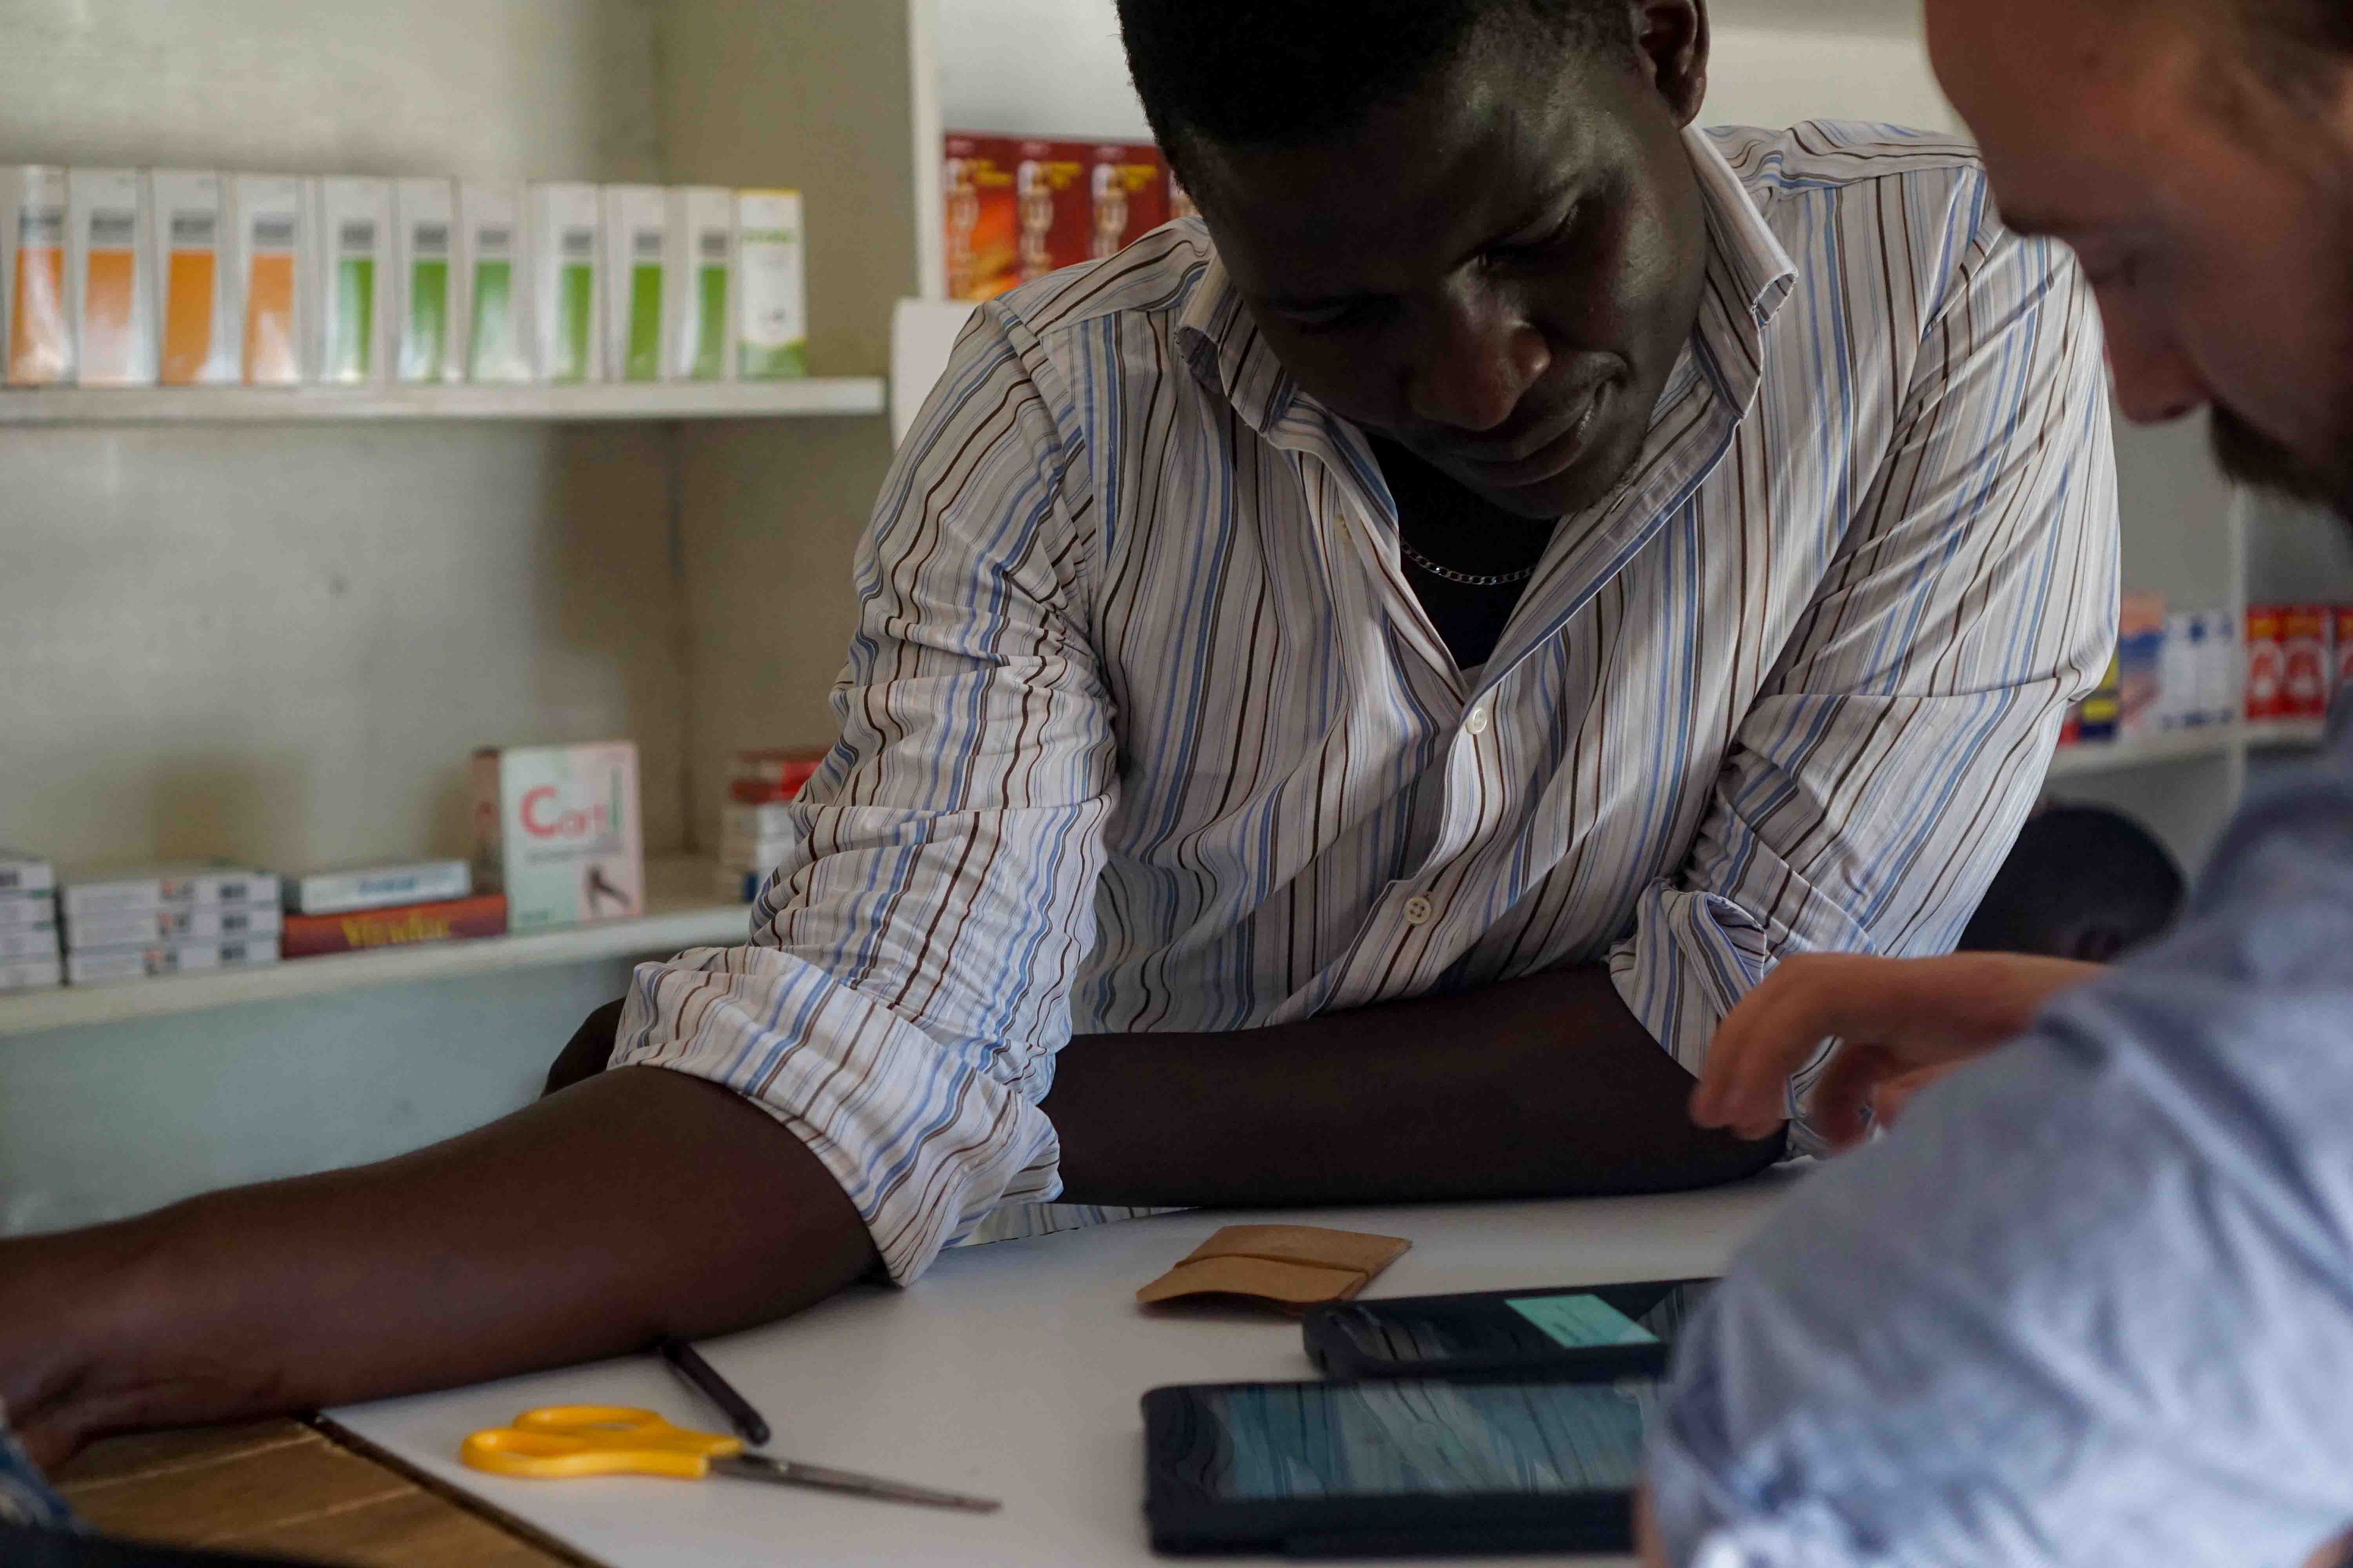
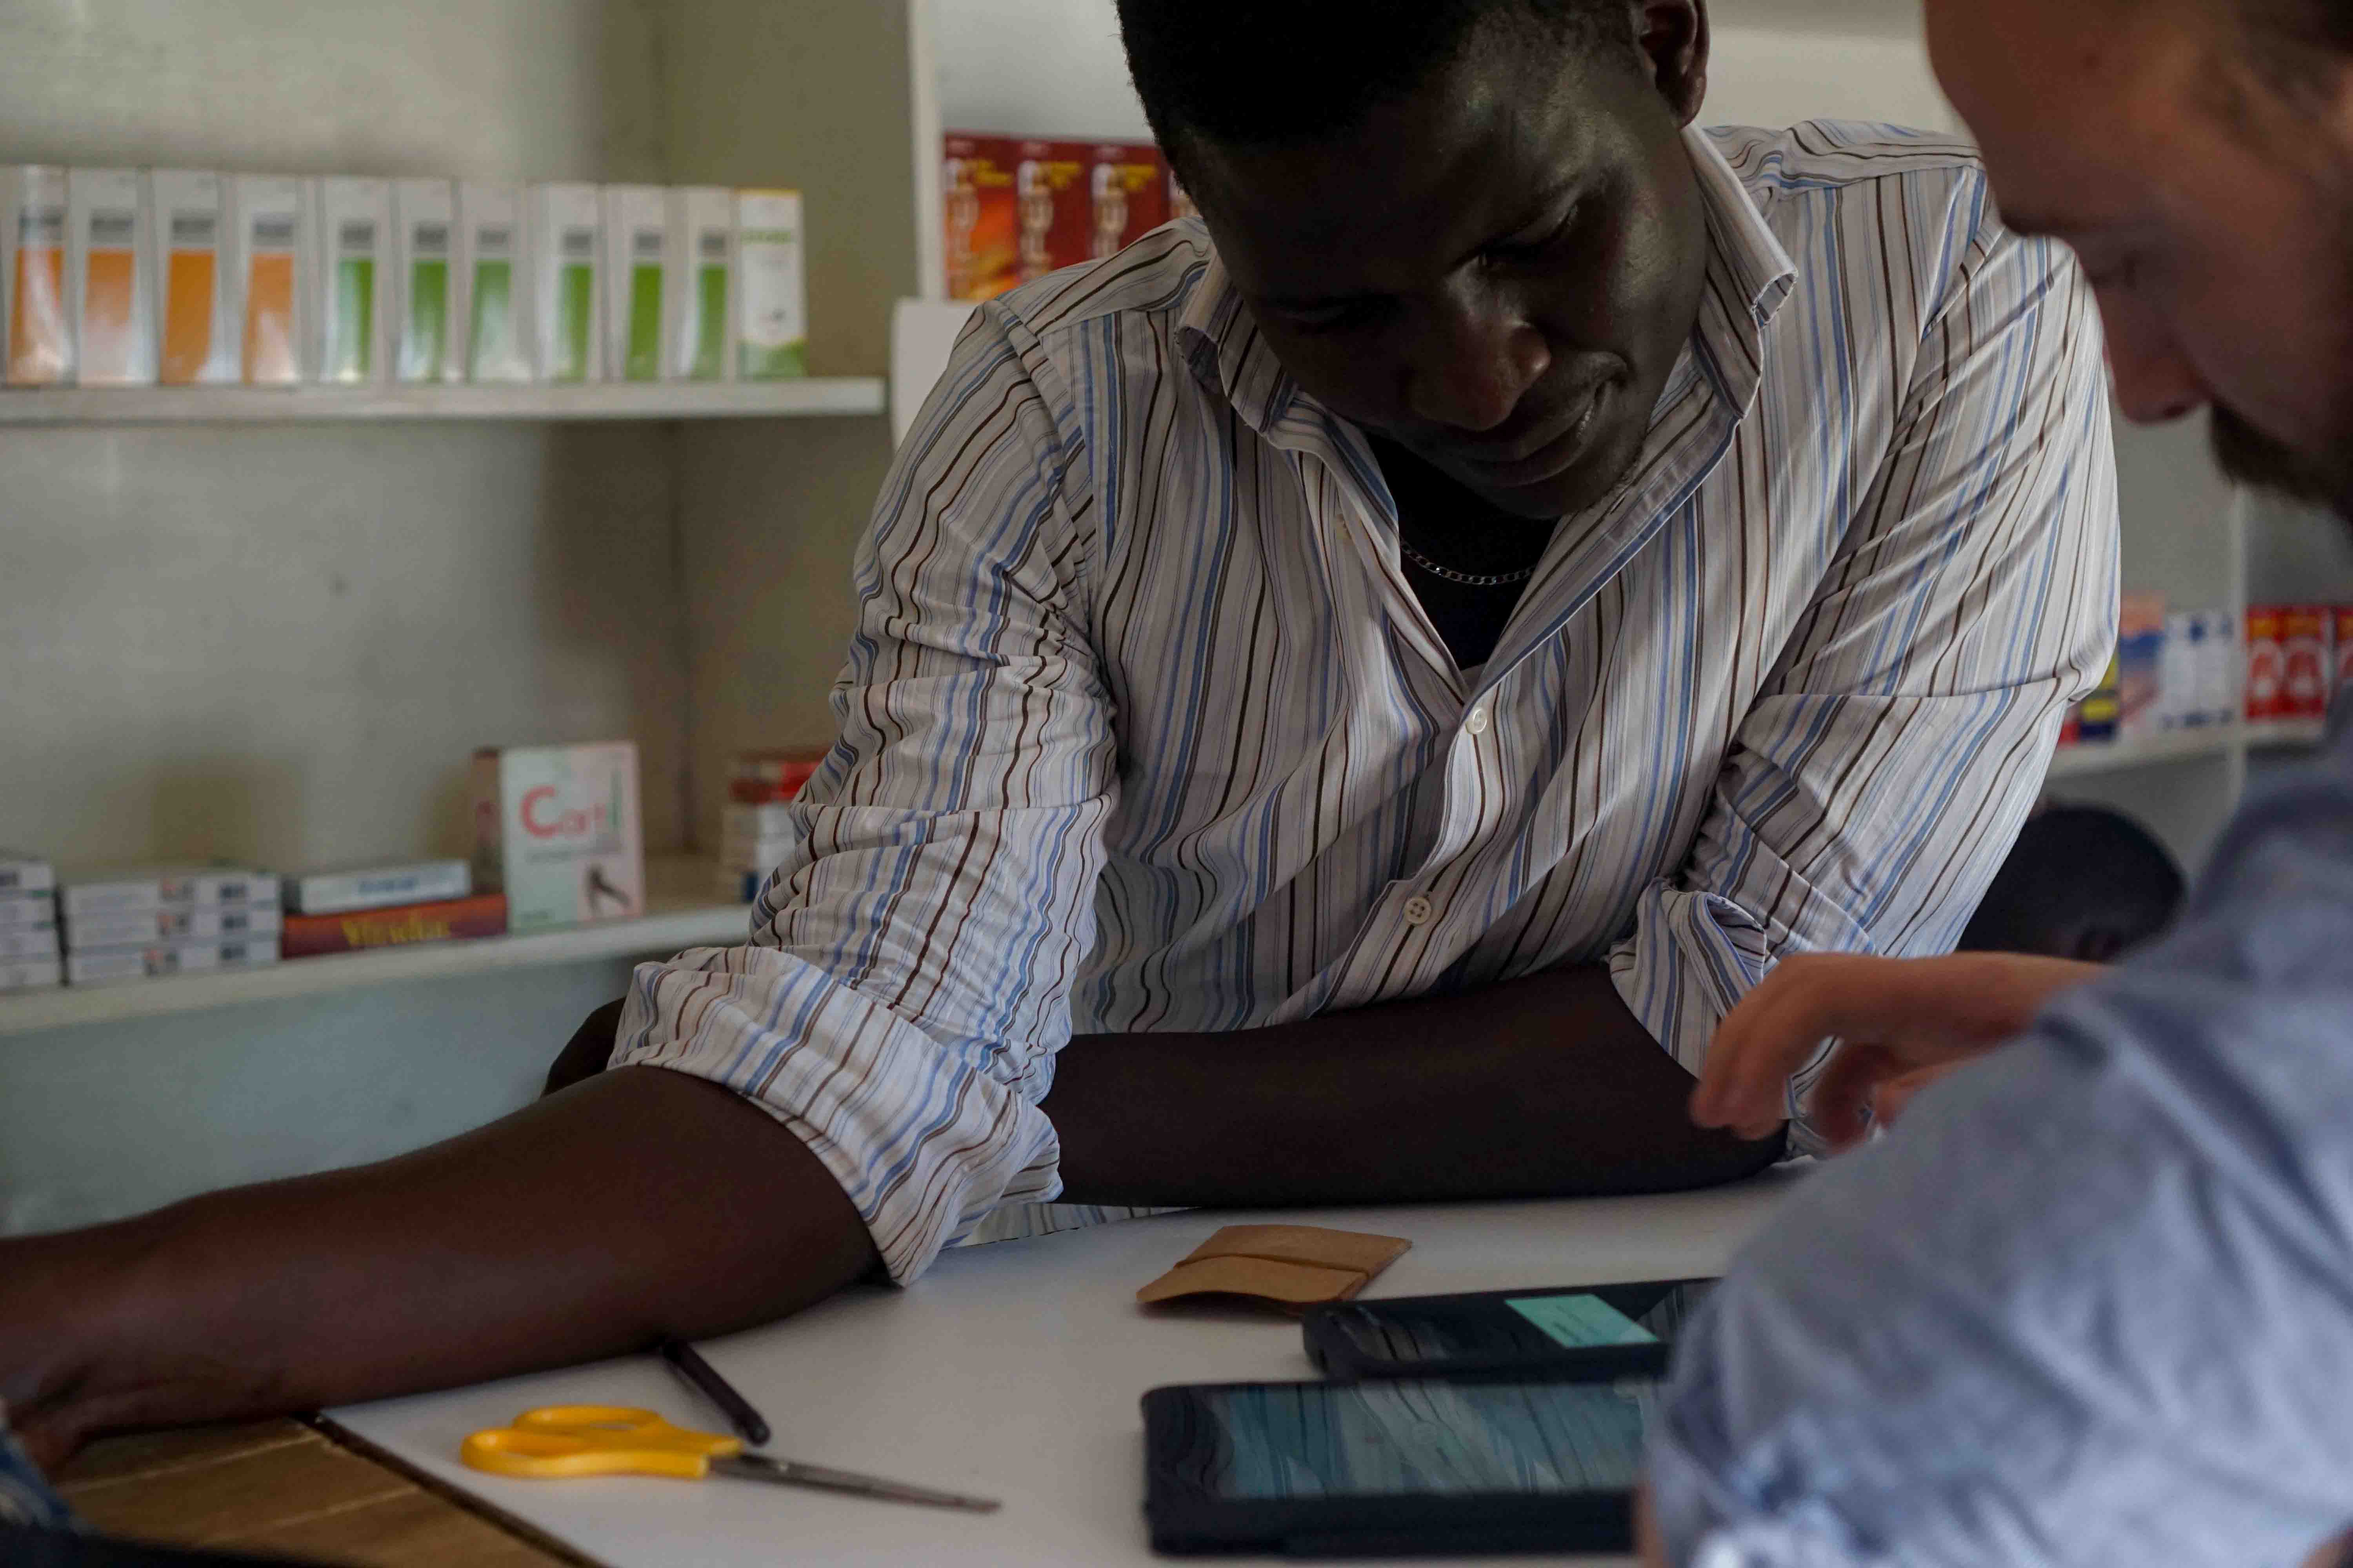
reduced margins on contact page text and darkened pic

diff --git a/contact.html b/contact.html
@@ -79,13 +79,13 @@
     <div class="container-fluid">
         <div class="row">
           <h1 style="margin-bottom:20px"> Contact </h1>
-          <p class="text-shadow-light"> I'm currently living in Nairobi full time. I make frequent trips to Kisumu for work, and try to make it home to Canada every once and a while. You can always reach me via email, and unless I'm in transit, or somewhere really remote, I'll be available on WhatsApp via my Kenyan phone number.
+          <p class="text-shadow-dark"> I'm currently living in Nairobi full time. I make frequent trips to Kisumu for work, and try to make it home to Canada every once and a while. You can always reach me via email, and unless I'm in transit, or somewhere really remote, I'll be available on WhatsApp via my Kenyan phone number.
           </p>
-          <p class="text-shadow-light"> <a href="mailto:sam@maishameds.org">
+          <p class="text-shadow-dark"> <a href="mailto:sam@maishameds.org">
           <strong> Email me</strong> </a> </p>
-          <p class="text-shadow-light"> 
+          <p class="text-shadow-dark"> 
           <strong>WhatsApp</strong> <a href="tel:+254727347491">:+254 727 347 491</a> </p>
-          <p class="text-shadow-light"> Check out my <a href="https://www.linkedin.com/in/sam-wilks-b314bb42"> <strong> LinkedIn </strong></a> profile </p>
+          <p class="text-shadow-dark"> Check out my <a href="https://www.linkedin.com/in/sam-wilks-b314bb42"> <strong> LinkedIn </strong></a> profile </p>
         </div>
     </div>
   </div>

diff --git a/less/main.less b/less/main.less
@@ -98,7 +98,7 @@ body {
 }
 
 .text-shadow-dark {
-	text-shadow: 0px 0px 6px rgba(0, 0, 0, 0.34);
+	text-shadow: 0px 0px 6px rgba(0, 0, 0, 0.60);
 }
 
 #index-jumbotron {
@@ -134,11 +134,11 @@ body {
 
 	@media screen and (max-width:1180px) {
 		margin-left:7.5%;
-		margin-top:5%;
-		margin-right: 20%
+		margin-top:4%;
+		margin-right: 50%
 	}
 	@media screen and (max-width:767px) {
-		margin-right: 7.5%
+		margin-right: 15%
 
 	}
 }
